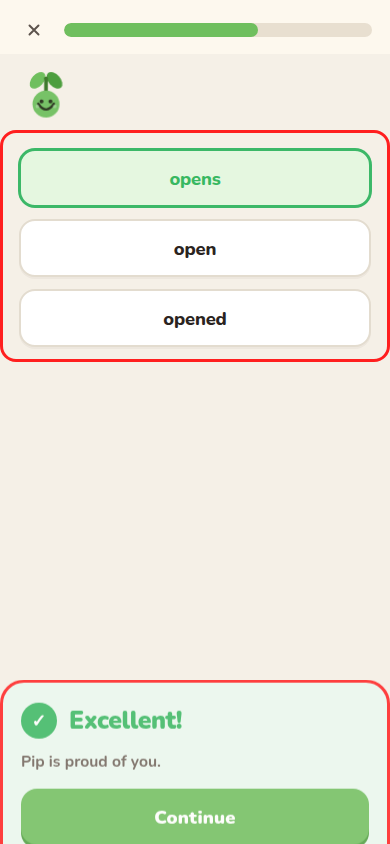
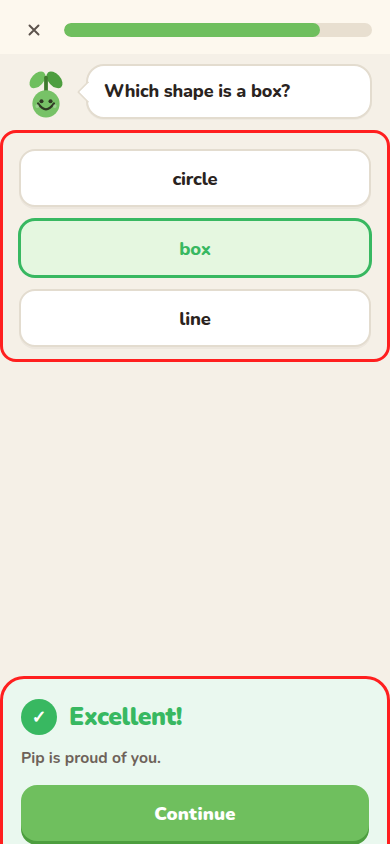
fix: keep the prompt during feedback and open the whole page
The speech bubble stays up on Correct, Almost, and wrong. The page viewer
shows the full straightened sheet at fit-to-width with pinch and pan, and
does not mark where a question might be.

diff --git a/src/screens/ScanReviewScreen.tsx b/src/screens/ScanReviewScreen.tsx
@@ -3,6 +3,7 @@
 
 import { useState } from 'react';
 import EmphasisText from '../components/EmphasisText';
+import PageViewer from '../components/PageViewer';
 import { canConfirm, reviewReducer, type ReviewAction, type ReviewQuestion } from '../lib/scan/review';
 import type { QuestionType } from '../lib/scan/types';
 
@@ -35,12 +36,17 @@ export default function ScanReviewScreen({
   const [openIds, setOpenIds] = useState<string[]>([]);
   const [typeMenu, setTypeMenu] = useState<string | null>(null);
   const [removedId, setRemovedId] = useState<string | null>(null);
-  const [zoom, setZoom] = useState<string | null>(null);
+  const [pageOpen, setPageOpen] = useState(false);
   const visible = questions.filter((q) => !q.deleted);
   const ready = visible.filter((q) => q.confirmed).length;
 
   function send(action: ReviewAction) {
     onChange(reviewReducer(questions, action));
+  }
+
+  function openPage() {
+    if (photos.length === 0) return;
+    setPageOpen(true);
   }
 
   function pickChoice(id: string, option: string) {
@@ -67,8 +73,8 @@ export default function ScanReviewScreen({
             key={src}
             type="button"
             className={`review-photo${mark ? ' scan-shot-mark' : ''}`}
-            onClick={() => setZoom(src)}
-            aria-label={`Straightened page ${index + 1}, tap to zoom`}
+            onClick={openPage}
+            aria-label={`Straightened page ${index + 1}, see the full page`}
           >
             <img src={src} alt={`Straightened homework page ${index + 1}`} />
           </button>
@@ -77,24 +83,26 @@ export default function ScanReviewScreen({
           const collapsed = q.confirmed && !openIds.includes(q.id);
           if (collapsed) {
             return (
-              <button
-                key={q.id}
-                type="button"
-                className={`review-collapsed${mark ? ' scan-shot-mark' : ''}`}
-                onClick={() => setOpenIds((ids) => [...ids, q.id])}
-              >
-                <span>{index + 1} · {oneLine(q)}</span>
-                <span className="review-collapsed__answer">{summary(q)}</span>
-              </button>
+              <div key={q.id} className={`review-collapsed${mark ? ' scan-shot-mark' : ''}`}>
+                <button type="button" className="review-collapsed__open" onClick={openPage}>
+                  <span>{index + 1} · {oneLine(q)}</span>
+                  <span className="review-collapsed__answer">{summary(q)}</span>
+                </button>
+                <button type="button" className="see-page" onClick={openPage}>See on page</button>
+                <button type="button" className="review-collapsed__edit" onClick={() => setOpenIds((ids) => [...ids, q.id])}>
+                  Edit
+                </button>
+              </div>
             );
           }
           return (
             <article className="review-card" key={q.id}>
               <header className="review-card__head">
-                <span>{index + 1}</span>
+                <button type="button" className="review-card__open" onClick={openPage}>{index + 1}</button>
                 <button type="button" className="type-chip" onClick={() => setTypeMenu(typeMenu === q.id ? null : q.id)}>
                   {TYPE_LABEL[q.type]}
                 </button>
+                <button type="button" className="see-page" onClick={openPage}>See on page</button>
               </header>
               {typeMenu === q.id && (
                 <div className="type-menu" role="listbox" aria-label="Question type">
@@ -245,10 +253,8 @@ export default function ScanReviewScreen({
           </button>
         </div>
       )}
-      {zoom && (
-        <button type="button" className="review-zoom" onClick={() => setZoom(null)} aria-label="Close photo">
-          <img src={zoom} alt="Homework page, enlarged" />
-        </button>
+      {pageOpen && photos.length > 0 && (
+        <PageViewer pages={photos} onClose={() => setPageOpen(false)} mark={mark} />
       )}
     </div>
   );

diff --git a/src/components/PageViewer.tsx b/src/components/PageViewer.tsx
@@ -1,0 +1,96 @@
+/* Full straightened page. No question is located or highlighted.
+   Opens at fit-to-width. Pinch and drag move freely. */
+
+import { useRef, useState } from 'react';
+
+interface PageViewerProps {
+  pages: string[];
+  onClose: () => void;
+  mark?: boolean;
+}
+
+export default function PageViewer({ pages, onClose, mark = false }: PageViewerProps) {
+  const [scale, setScale] = useState(1);
+  const [origin, setOrigin] = useState({ x: 0, y: 0 });
+  const pointers = useRef(new Map<number, { x: number; y: number }>());
+  const gesture = useRef({ scale: 1, x: 0, y: 0, dist: 0, cx: 0, cy: 0 });
+
+  function points() {
+    return [...pointers.current.values()];
+  }
+
+  function span(pts: { x: number; y: number }[]) {
+    if (pts.length < 2) return 0;
+    return Math.hypot(pts[0].x - pts[1].x, pts[0].y - pts[1].y);
+  }
+
+  function center(pts: { x: number; y: number }[]) {
+    const n = pts.length || 1;
+    return {
+      x: pts.reduce((sum, p) => sum + p.x, 0) / n,
+      y: pts.reduce((sum, p) => sum + p.y, 0) / n,
+    };
+  }
+
+  function onPointerDown(event: React.PointerEvent<HTMLDivElement>) {
+    event.currentTarget.setPointerCapture(event.pointerId);
+    pointers.current.set(event.pointerId, { x: event.clientX, y: event.clientY });
+    const pts = points();
+    const mid = center(pts);
+    gesture.current = { scale, x: origin.x, y: origin.y, dist: span(pts), cx: mid.x, cy: mid.y };
+  }
+
+  function onPointerMove(event: React.PointerEvent<HTMLDivElement>) {
+    if (!pointers.current.has(event.pointerId)) return;
+    pointers.current.set(event.pointerId, { x: event.clientX, y: event.clientY });
+    const pts = points();
+    const mid = center(pts);
+    if (pts.length >= 2 && gesture.current.dist > 0) {
+      const next = Math.min(6, Math.max(1, gesture.current.scale * (span(pts) / gesture.current.dist)));
+      const dx = mid.x - gesture.current.cx;
+      const dy = mid.y - gesture.current.cy;
+      setScale(next);
+      setOrigin({ x: gesture.current.x + dx, y: gesture.current.y + dy });
+      return;
+    }
+    if (pts.length === 1) {
+      setOrigin({
+        x: gesture.current.x + (mid.x - gesture.current.cx),
+        y: gesture.current.y + (mid.y - gesture.current.cy),
+      });
+    }
+  }
+
+  function onPointerUp(event: React.PointerEvent<HTMLDivElement>) {
+    pointers.current.delete(event.pointerId);
+    const pts = points();
+    const mid = center(pts);
+    gesture.current = { scale, x: origin.x, y: origin.y, dist: span(pts), cx: mid.x, cy: mid.y };
+  }
+
+  return (
+    <div className={`page-viewer${mark ? ' scan-shot-mark' : ''}`} role="dialog" aria-label="Straightened page">
+      <button type="button" className="page-viewer__close" onClick={onClose} aria-label="Close page">
+        <svg viewBox="0 0 24 24" fill="none" aria-hidden="true">
+          <path d="M6 6l12 12M18 6L6 18" />
+        </svg>
+      </button>
+      <div
+        className="page-viewer__stage"
+        onPointerDown={onPointerDown}
+        onPointerMove={onPointerMove}
+        onPointerUp={onPointerUp}
+        onPointerCancel={onPointerUp}
+      >
+        <div
+          className="page-viewer__sheet"
+          style={{ transform: `translate(${origin.x}px, ${origin.y}px) scale(${scale})` }}
+        >
+          {pages.map((src) => (
+            <img key={src} src={src} alt="Straightened homework page" draggable={false} />
+          ))}
+        </div>
+      </div>
+    </div>
+  );
+}

diff --git a/src/styles/app.css b/src/styles/app.css
@@ -2475,6 +2475,10 @@ body.calm-motion *, body.calm-motion *::before, body.calm-motion *::after { anim
   background: #6FBF5E;
   box-shadow: 0 4px 0 #4D9E3F;
 }
+.lesson--scan .lesson__sheet-cta--red {
+  background: #EE4848;
+  box-shadow: 0 4px 0 #C93A3A;
+}
 .lesson--scan .lesson__progress-fill { background: #6FBF5E; }
 .scanq__part, .scanq__instruction {
   margin: 0;
@@ -2524,16 +2528,62 @@ body.calm-motion *, body.calm-motion *::before, body.calm-motion *::after { anim
   border: 2px solid #e3dccf;
 }
 .review-photo img { display: block; width: 100%; max-height: 132px; object-fit: contain; background: #fff; }
-.review-zoom {
+.page-viewer {
   position: fixed;
   inset: 0;
-  z-index: 40;
-  background: rgba(42, 35, 32, 0.72);
+  z-index: 50;
+  background: #1c1917;
+  touch-action: none;
+}
+.page-viewer__close {
+  position: absolute;
+  top: 12px;
+  left: 12px;
+  z-index: 2;
+  width: 44px;
+  height: 44px;
+  border-radius: 12px;
+  background: #F5F0E7;
   display: grid;
   place-items: center;
-  padding: 16px;
 }
-.review-zoom img { max-width: 100%; max-height: 100%; object-fit: contain; background: #fff; }
+.page-viewer__close svg { width: 18px; height: 18px; stroke: #2A2320; stroke-width: 2.6; stroke-linecap: round; }
+.page-viewer__stage {
+  width: 100%;
+  height: 100%;
+  overflow: hidden;
+  touch-action: none;
+  cursor: grab;
+}
+.page-viewer__sheet {
+  width: 100%;
+  transform-origin: 0 0;
+}
+.page-viewer__sheet img {
+  display: block;
+  width: 100%;
+  height: auto;
+  pointer-events: none;
+  user-select: none;
+}
+.see-page {
+  font-weight: 800;
+  font-size: 0.82rem;
+  color: #5AA7C9;
+  min-height: 32px;
+}
+.review-collapsed { align-items: center; }
+.review-collapsed__open {
+  flex: 1;
+  display: flex;
+  justify-content: space-between;
+  gap: 8px;
+  text-align: left;
+  font-weight: 800;
+  min-height: 44px;
+}
+.review-collapsed__edit { font-weight: 800; color: rgba(42, 35, 32, 0.6); min-height: 44px; }
+.review-card__open { font-weight: 900; min-height: 32px; }
 .review-collapsed {
   width: 100%;
   display: flex;

diff --git a/src/scan-shot/mount.tsx b/src/scan-shot/mount.tsx
@@ -7,7 +7,7 @@ import ScanQuizScreen from '../screens/ScanQuizScreen';
 import ScanReviewScreen from '../screens/ScanReviewScreen';
 import { ScanErrorPreview, ScanLoadingPreview } from '../screens/ScanHomeworkScreen';
 import type { ReviewQuestion } from '../lib/scan/review';
-import { checkFixture, quizFixture } from './fixtures';
+import { actionsFixture, checkFixture, quizFixture } from './fixtures';
 
 function syntheticPage(): string {
   const canvas = document.createElement('canvas');
@@ -29,6 +29,18 @@ function syntheticPage(): string {
   return canvas.toDataURL('image/jpeg', 0.85);
 }
 
+function ActionsShot() {
+  const [questions, setQuestions] = useState<ReviewQuestion[]>(() => actionsFixture());
+  return (
+    <ScanReviewScreen
+      questions={questions}
+      onChange={setQuestions}
+      onPractice={() => {}}
+      onBack={() => {}}
+    />
+  );
+}
+
 function CheckShot() {
   const [questions, setQuestions] = useState<ReviewQuestion[]>(() => checkFixture());
   return (
@@ -48,7 +60,9 @@ export function mountScanShot(which: string) {
   if (!root) return;
   const screen = which === 'check'
     ? <CheckShot />
-    : which === 'error'
+    : which === 'check-tools'
+      ? <ActionsShot />
+      : which === 'error'
       ? <ScanErrorPreview mark />
       : which === 'loading'
         ? <ScanLoadingPreview mark />

diff --git a/src/screens/ScanQuizScreen.tsx b/src/screens/ScanQuizScreen.tsx
@@ -63,7 +63,6 @@ export default function ScanQuizScreen({ parts, onExit, onComplete, markAnswers 
 
   const total = queue.items.length;
   const pipPose = phase === 'feedback' ? (grade === 'correct' ? 'correct' : 'almost') : 'neutral';
-  const showBubble = phase !== 'feedback';
   const filled = q.kind === 'fill_cards' || q.kind === 'fill_bank' ? (typed || choice) : null;
 
   function resetInputs() {
@@ -181,7 +180,7 @@ export default function ScanQuizScreen({ parts, onExit, onComplete, markAnswers 
         <div className={`lesson__pip-wrap${pipPose === 'correct' ? ' lesson__pip-wrap--proud' : pipPose === 'almost' ? ' lesson__pip-wrap--soft' : ''}`} aria-hidden="true">
           <PipPose pose={pipPose} />
         </div>
-        {showBubble && (
+        {(
           <div className="lesson__bubble">
             <p className="lesson__bubble-text">
               {q.kind === 'fill_cards' || q.kind === 'fill_bank'
@@ -238,7 +237,7 @@ export default function ScanQuizScreen({ parts, onExit, onComplete, markAnswers 
           </div>
         )}
 
-        {showBubble && q.kind === 'rewrite' && q.prompt && (
+        {q.kind === 'rewrite' && q.prompt && (
           <blockquote className="scanq__quote">{q.prompt}</blockquote>
         )}
 

diff --git a/src/scan-shot/fixtures.ts b/src/scan-shot/fixtures.ts
@@ -16,6 +16,24 @@ function q(partial: Partial<ScannedQuestion> & Pick<ScannedQuestion, 'id' | 'typ
   };
 }
 
+/** Compact check list so Add a choice, Add a missed question, and Undo fit together. */
+export function actionsFixture(): ReviewQuestion[] {
+  return createReview([
+    q({
+      id: 'q0',
+      type: 'rewrite',
+      prompt: 'Spare line.',
+      instruction: '',
+    }),
+    q({
+      id: 'q2',
+      type: 'multiple_choice',
+      prompt: 'Which shape is a box?',
+      options: ['circle', 'box'],
+    }),
+  ]);
+}
+
 export function checkFixture(): ReviewQuestion[] {
   let review = createReview([
     q({
